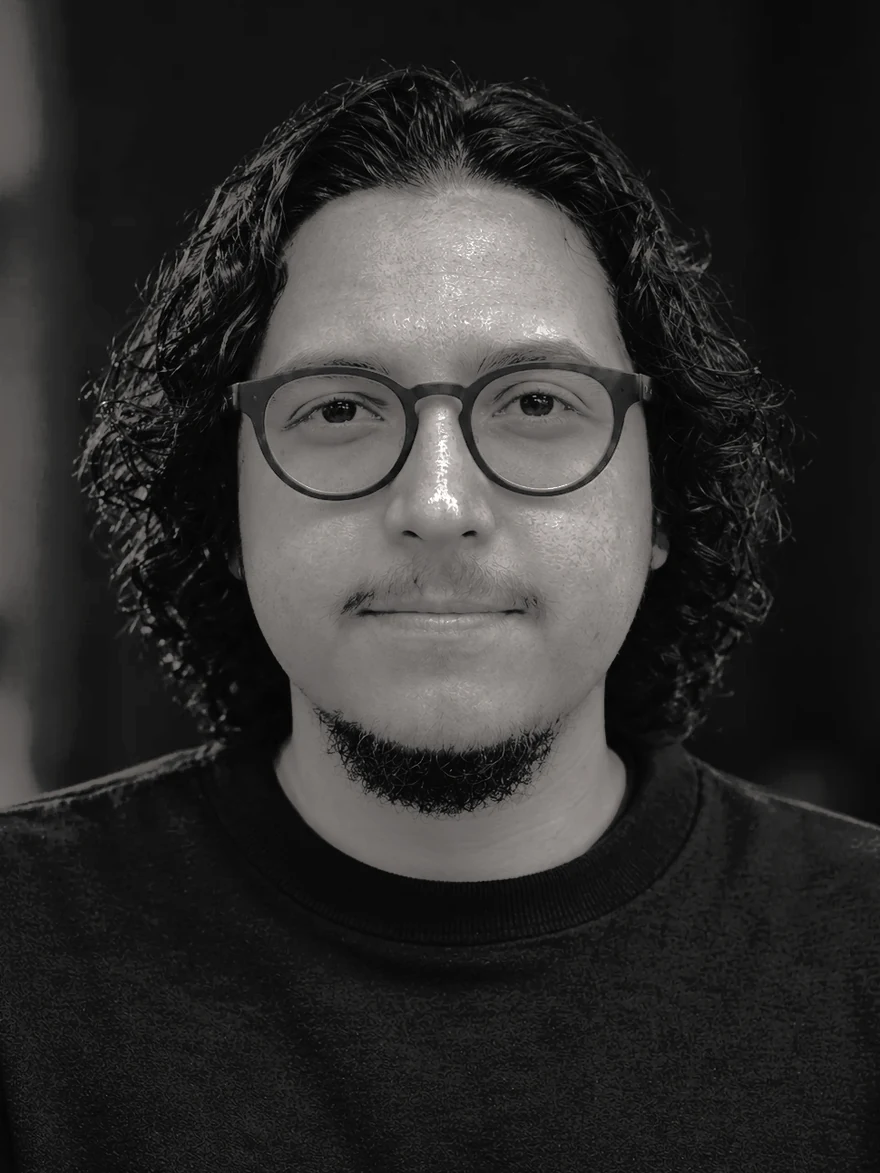
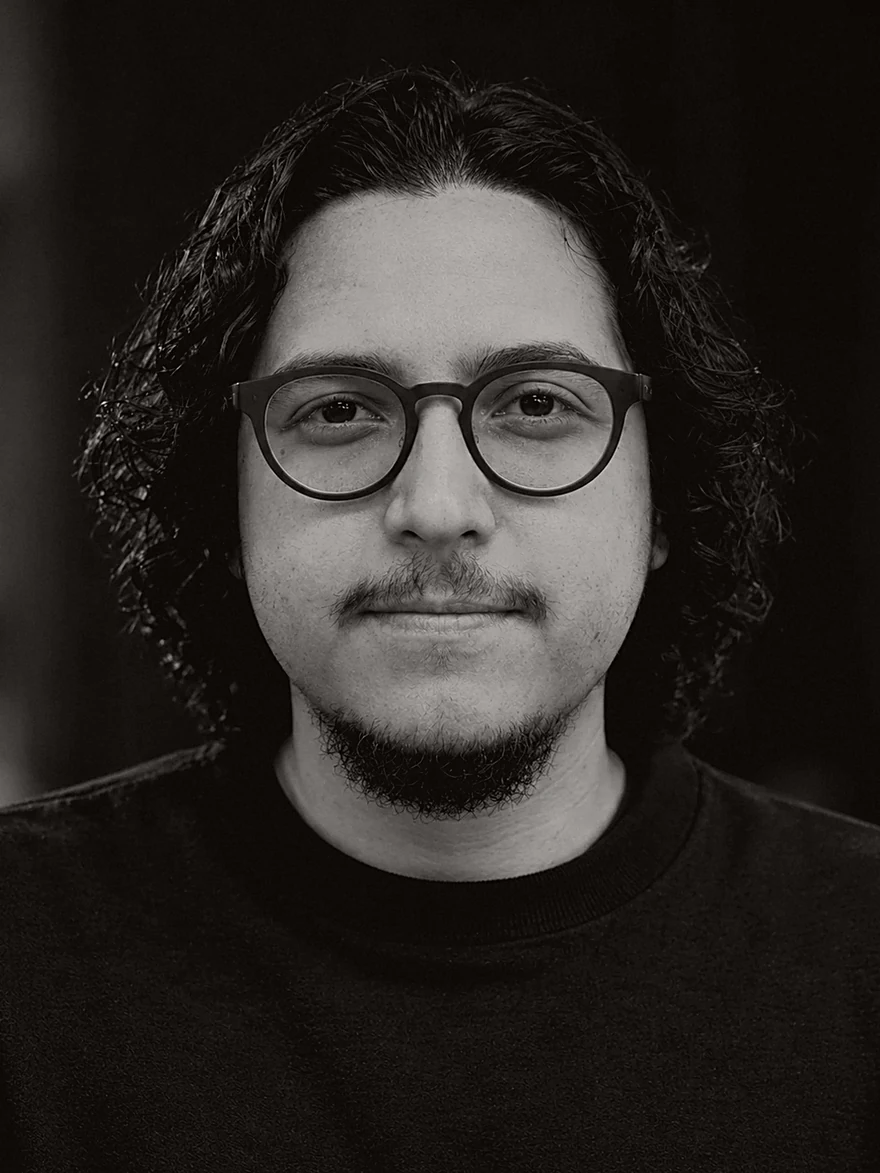
Editorial portraits, code-editor team cards, compiled hero headline
- Both founder portraits share one editorial grade: exposure-matched faces,
  highlight roll-off, matte blacks, film grain and vignette
- Team section rebuilt as code-editor cards; photos compile from ASCII on
  arrival and switch to live ASCII on hover
- Deploys ordered Lyapp, Simply Andy, Your English Buddy; a single
  "your project here" card whose copy and CTA follow the active filter
- Loader shows on first visit and every reload (not on internal navigation)
- Hero headline is typed, written as code, then compiled letter by letter

diff --git a/src/scripts/fx.js b/src/scripts/fx.js
@@ -33,19 +33,47 @@ function decode(el, dur = 900) {
   });
 }
 
-/* ───────── Hero: command + headline decode ───────── */
+/* ───────── Hero: typed headline that compiles from code ───────── */
 const heroCmd = $("[data-hero-cmd]");
-if (heroCmd && !reduced) {
-  const full = heroCmd.dataset.text;
-  const lines = $$("[data-scramble]", $("[data-hero-h1]"));
-  heroCmd.textContent = "";
-  lines.forEach((l) => { l.dataset.final = l.textContent; l.style.visibility = "hidden"; });
+const h1 = $("[data-hero-h1]");
+if (h1 && !reduced) {
+  const l1 = $("[data-type]", h1), l2 = $("[data-compile]", h1);
+  const t1 = l1.textContent, t2 = l2.textContent, code = l2.dataset.code;
+  const full = heroCmd?.dataset.text ?? "";
+  const letters = (el, text) => {
+    el.textContent = "";
+    return [...text].map((ch) => { const s = document.createElement("span"); s.className = "tl-ch"; s.textContent = ch; el.appendChild(s); return s; });
+  };
+  const l1s = letters(l1, t1);
+  l2.classList.add("is-code");
+  l2.textContent = "";
+  if (heroCmd) heroCmd.textContent = "";
+  h1.classList.add("is-typing");
   setTimeout(async () => {
-    for (let i = 1; i <= full.length; i++) { heroCmd.textContent = full.slice(0, i); await wait(18 + Math.random() * 22); }
-    await wait(140);
-    for (const l of lines) { l.style.visibility = ""; await decode(l, 650); }
-  }, noLoader() ? 250 : 1900);
-}
+    // command line types in parallel
+    if (heroCmd) (async () => { for (let i = 1; i <= full.length; i++) { heroCmd.textContent = full.slice(0, i); await wait(11); } })();
+    // line 1: typed with a block caret
+    for (const s of l1s) { s.classList.add("is-on", "is-cur"); await wait(34); s.classList.remove("is-cur"); }
+    // line 2: written as code first…
+    for (let i = 1; i <= code.length; i++) { l2.textContent = code.slice(0, i); await wait(17); }
+    await wait(170);
+    // …then compiled letter by letter into the headline
+    l2.classList.remove("is-code");
+    const l2s = letters(l2, t2);
+    const W = l2.getBoundingClientRect().width;
+    l2s.forEach((s, i) => {
+      s.style.setProperty("--i", i);
+      s.style.backgroundSize = `${W}px 100%`;
+      s.style.backgroundPosition = `${-s.offsetLeft}px 0`;
+      s.classList.add("is-flip");
+    });
+    h1.classList.remove("is-typing");
+    h1.classList.add("is-compiled");
+    await wait(l2s.length * 22 + 520);
+    l2.textContent = t2;
+    l1.textContent = t1;
+  }, noLoader() ? 150 : 1400);
+} else if (heroCmd) heroCmd.textContent = heroCmd.dataset.text;
 
 /* ───────── Hero: live coding playground ───────── */
 const live = $("[data-live]");
@@ -222,3 +250,75 @@ if (fplay) {
   }, { threshold: 0.3 }).observe(fplay);
   if (reduced) fplay.classList.add("is-in");
 }
+
+/* ───────── Team photos: compile from ASCII, live ASCII on hover ───────── */
+const RAMP = " .,:;i1tfLCG08@";
+$$("[data-ascii]").forEach((fig) => {
+  const img = $("img", fig), canvas = $("canvas", fig), scan = $(".dev__scan", fig);
+  const accent = getComputedStyle(fig.closest(".dev") || fig).getPropertyValue("--fc").trim() || "#45E0FF";
+  const ctx = canvas.getContext("2d");
+  let lum = null, cols = 0, rows = 0, cw = 0, ch = 0, reveal = 0, hover = 0, hoverTarget = 0, raf = 0, started = false;
+  const sample = () => {
+    const r = fig.getBoundingClientRect();
+    const dpr = Math.min(2, devicePixelRatio || 1);
+    canvas.width = Math.round(r.width * dpr); canvas.height = Math.round(r.height * dpr);
+    cols = r.width < 360 ? 52 : 78;
+    cw = canvas.width / cols; ch = cw * 1.7; rows = Math.ceil(canvas.height / ch);
+    const off = document.createElement("canvas");
+    off.width = cols; off.height = rows;
+    const o = off.getContext("2d");
+    // mimic object-fit: cover; object-position: 50% 18%
+    const s = Math.max(cols / img.naturalWidth, rows * (ch / cw) / img.naturalHeight);
+    const dw = img.naturalWidth * s, dh = img.naturalHeight * s / (ch / cw);
+    o.drawImage(img, (cols - dw) / 2, (rows - dh) * 0.18, dw, dh);
+    const d = o.getImageData(0, 0, cols, rows).data;
+    lum = new Float32Array(cols * rows);
+    for (let i = 0; i < cols * rows; i++) lum[i] = (d[i * 4] * 0.3 + d[i * 4 + 1] * 0.59 + d[i * 4 + 2] * 0.11) / 255;
+  };
+  const draw = (t) => {
+    if (!lum) return;
+    ctx.clearRect(0, 0, canvas.width, canvas.height);
+    const scanRow = reveal * rows;
+    ctx.font = `${Math.round(ch * 0.82)}px "JetBrains Mono", monospace`;
+    ctx.textBaseline = "top";
+    for (let y = 0; y < rows; y++) {
+      const hidden = y >= scanRow;            // not yet compiled → solid ASCII
+      const a = hidden ? 1 : hover;            // compiled → ASCII only while hovering
+      if (a <= 0.01) continue;
+      ctx.fillStyle = `rgba(6, 7, 14, ${hidden ? 1 : 0.92 * a})`;
+      ctx.fillRect(0, y * ch, canvas.width, ch + 1);
+      for (let x = 0; x < cols; x++) {
+        let v = lum[y * cols + x];
+        if (hover > 0 && Math.random() < 0.012) v = Math.random();
+        const c = RAMP[Math.min(RAMP.length - 1, Math.floor(Math.pow(v, 0.75) * RAMP.length))];
+        if (c === " ") continue;
+        ctx.globalAlpha = Math.min(1, 0.45 + v * 1.1) * (hidden ? 1 : a);
+        ctx.fillStyle = v > 0.55 ? "#eef2f8" : accent;
+        ctx.fillText(c, x * cw, y * ch);
+      }
+      ctx.globalAlpha = 1;
+    }
+    if (scan) { scan.style.opacity = reveal > 0 && reveal < 1 ? "1" : "0"; scan.style.transform = `translateY(${(scanRow * ch) / (canvas.height / fig.clientHeight)}px)`; }
+  };
+  const loop = (now) => {
+    hover += (hoverTarget - hover) * 0.12;
+    draw(now);
+    raf = (reveal < 1 || Math.abs(hoverTarget - hover) > 0.01 || hoverTarget > 0) ? requestAnimationFrame(loop) : 0;
+  };
+  const kick = () => { if (!raf) raf = requestAnimationFrame(loop); };
+  const start = () => {
+    if (started) return; started = true;
+    sample();
+    if (reduced) { reveal = 1; draw(); return; }
+    const t0 = performance.now();
+    const step = (now) => { reveal = Math.min(1, (now - t0) / 1500); if (reveal < 1) requestAnimationFrame(step); };
+    requestAnimationFrame(step); kick();
+  };
+  const ready = () => new IntersectionObserver(([e], io) => { if (e.isIntersecting) { io.disconnect(); setTimeout(start, 250); } }, { threshold: 0.35 }).observe(fig);
+  img.complete && img.naturalWidth ? ready() : img.addEventListener("load", ready, { once: true });
+  if (!reduced) {
+    fig.closest(".dev").addEventListener("pointerenter", () => { if (started && reveal >= 1) { hoverTarget = 1; kick(); } });
+    fig.closest(".dev").addEventListener("pointerleave", () => { hoverTarget = 0; kick(); });
+  }
+  addEventListener("resize", () => { if (started) { sample(); draw(); } }, { passive: true });
+});

diff --git a/src/styles/global.css b/src/styles/global.css
@@ -1096,7 +1096,7 @@ a.svc { text-decoration: none; color: inherit; }
 .hero2__cmd { display: flex; justify-content: center; align-items: center; gap: 8px; margin: 4px 0 22px; font-family: var(--mono); font-size: clamp(12px, 1.4vw, 14px); color: var(--soft); min-height: 1.5em; }
 .hero2__caret, .hero2 .hero2__caret { display: inline-block; width: .55em; height: 1.1em; background: var(--cyan); vertical-align: -2px; animation: blink 1s steps(1) infinite; }
 .hero2__h1 { font-family: var(--display); font-weight: 700; font-size: clamp(46px, 8.6vw, 116px); line-height: .98; letter-spacing: -.045em; margin: 0 auto; }
-.hero2__h1 span { display: block; }
+.hero2__l1, .hero2__l2 { display: block; }
 .hero2__h1 [data-scramble] .gl { color: var(--cyan-2); opacity: .7; font-family: var(--mono); font-weight: 500; -webkit-text-fill-color: var(--cyan-2); }
 .hero2 .lead { margin: 26px auto 0; text-align: center; max-width: 54ch; }
 .hero2 .stage { margin-top: clamp(48px, 8vh, 80px); }
@@ -1317,3 +1317,51 @@ a.svc { text-decoration: none; color: inherit; }
 .nd-w { display: inline-flex; }
 .vsc__editor textarea { max-width: none !important; flex: 1 1 100% !important; }
 .nextdeploy__main { position: relative; z-index: 1; }
+
+/* ─────────────────────────────  Team: code-editor cards  ───────────────────────────── */
+.devs { display: grid; grid-template-columns: repeat(2, minmax(0, 1fr)); gap: 18px; }
+.dev { border-radius: 20px; border: 1px solid var(--line-2); background: #0b0e1c; overflow: hidden; box-shadow: 0 40px 90px -40px rgba(0, 0, 0, .9); transition: border-color .3s, transform .5s var(--ease); }
+.dev:hover { border-color: color-mix(in srgb, var(--fc) 55%, transparent); transform: translateY(-4px); }
+.dev__bar { display: flex; align-items: center; gap: 14px; padding: 11px 14px; background: #090b17; border-bottom: 1px solid var(--line); font-family: var(--mono); font-size: 12px; }
+.dev__file { display: inline-flex; gap: 7px; align-items: center; padding: 4px 10px; border-radius: 7px; background: var(--ed, #0d1020); color: var(--text); border-top: 2px solid var(--fc); }
+.dev__blame { margin-left: auto; color: var(--faint); }
+.dev__body { display: grid; grid-template-columns: minmax(0, .95fr) minmax(0, 1.05fr); }
+.dev__photo { position: relative; margin: 0; min-height: 440px; overflow: hidden; background: #000; border-right: 1px solid var(--line); }
+.dev__photo img { position: absolute; inset: 0; width: 100%; height: 100%; object-fit: cover; object-position: 50% 18%; }
+.dev__photo canvas { position: absolute; inset: 0; width: 100%; height: 100%; pointer-events: none; }
+.dev__scan { position: absolute; left: 0; right: 0; top: 0; height: 2px; background: var(--fc); box-shadow: 0 0 18px 3px var(--fc); opacity: 0; pointer-events: none; }
+.dev__photo figcaption { position: absolute; left: 10px; bottom: 10px; padding: 3px 8px; border-radius: 6px; background: rgba(6, 7, 14, .75); font-family: var(--mono); font-size: 10.5px; color: var(--dim); }
+.dev__code { padding: 20px 20px 22px 18px; font-family: var(--mono); font-size: 13px; line-height: 1.9; color: #c7cee6; counter-reset: dl; min-width: 0; }
+.dl { position: relative; padding-left: 30px; counter-increment: dl; }
+.dl::before { content: counter(dl); position: absolute; left: 0; width: 18px; text-align: right; color: #3b4266; font-size: 11.5px; }
+.dl--in { padding-left: 48px; }
+.dev__code .k { color: #c792ea; } .dev__code .v { color: var(--fc); } .dev__code .p { color: #82aaff; } .dev__code .s { color: #c3e88d; }
+.dev__name { display: inline; white-space: nowrap; font-family: var(--display); font-size: clamp(18px, 1.6vw, 22px); font-weight: 700; letter-spacing: -.5px; color: #c3e88d; }
+.dl--wrap { display: block; }
+.dev__chip { display: inline-block; margin-right: 6px; color: #c3e88d; }
+.dl--bio p { display: inline; font-family: var(--body); font-size: 14px; line-height: 1.65; color: var(--muted); }
+@media (max-width: 1100px) { .devs { grid-template-columns: 1fr; } }
+@media (max-width: 560px) { .dev__body { grid-template-columns: 1fr; } .dev__photo { border-right: 0; border-bottom: 1px solid var(--line); min-height: 0; aspect-ratio: 1; } .dev__blame { display: none; } }
+.build[hidden] { display: none !important; }
+.build__btn { align-self: flex-start; margin-top: auto; }
+.build__body p { margin-bottom: 18px; }
+.build--wide { grid-template-columns: 260px 1fr; min-height: 220px; }
+.build--wide .build__body { justify-content: center; padding: 30px 34px; }
+.build--wide h3 { font-size: clamp(24px, 3vw, 34px); }
+
+/* Hero headline: typed, then compiled */
+.hero2__h1 { position: relative; display: inline-block; padding: 0 .35em; }
+.h1-tag { position: absolute; left: -.2em; top: -.15em; font-family: var(--mono); font-size: clamp(12px, 1.2vw, 15px); font-weight: 500; letter-spacing: 0; color: #c792ea; opacity: .75; }
+.h1-tag--end { left: auto; top: auto; right: -.4em; bottom: -.1em; }
+.hero2__l1, .hero2__l2 { min-height: 1em; }
+.is-typing .tl-ch { opacity: 0; }
+.tl-ch.is-on { opacity: 1; }
+.tl-ch.is-cur { box-shadow: .08em 0 0 0 var(--cyan); }
+.hero2__l2.is-code { font-family: var(--mono); font-weight: 500; font-size: .62em; letter-spacing: -.02em; line-height: 1.6; background: none; -webkit-text-fill-color: #7fe7ff; color: #7fe7ff; }
+.hero2__l2.is-code::after { content: ""; display: inline-block; width: .5em; height: .9em; margin-left: .06em; vertical-align: -.08em; background: var(--cyan); animation: blink .6s steps(1) infinite; }
+.hero2__l2 .tl-ch { display: inline-block; white-space: pre; background-image: var(--grad-text); -webkit-background-clip: text; background-clip: text; -webkit-text-fill-color: transparent; }
+.tl-ch.is-flip { animation: compileIn .5s cubic-bezier(.3, 1.4, .5, 1) both; animation-delay: calc(var(--i) * 22ms); }
+@keyframes compileIn { 0% { transform: translateY(.35em) rotateX(90deg); opacity: 0; filter: blur(4px); } 60% { opacity: 1; } 100% { transform: none; opacity: 1; filter: none; } }
+.hero2__h1.is-compiled .h1-tag { animation: tagPulse .8s ease 1; }
+@keyframes tagPulse { 50% { opacity: 1; color: var(--cyan); } }
+@media (max-width: 640px) { .h1-tag { display: none; } .hero2__h1 { padding: 0; } }

diff --git a/src/data/projects.ts b/src/data/projects.ts
@@ -26,7 +26,7 @@ export type Project = {
 
 const testEnv: L = { en: "In staging", es: "En entorno de prueba" };
 
-export const projects: Project[] = [
+const list: Project[] = [
   {
     slug: "simply-andy",
     name: "Simply Andy",
@@ -176,9 +176,16 @@ export const projects: Project[] = [
   },
 ];
 
-export const upcoming = [
-  { name: { en: "Your e-commerce here", es: "Tu e-commerce aquí" }, category: { en: "Web · E-commerce", es: "Web · E-commerce" }, note: { en: "Booking now", es: "Agenda abierta" } },
-  { name: { en: "Project in progress", es: "Proyecto en desarrollo" }, category: { en: "SaaS platform", es: "Plataforma SaaS" }, note: { en: "Under NDA · coming soon", es: "Bajo NDA · próximamente" } },
+/** Display order: Lyapp, Simply Andy, Your English Buddy. */
+export const projects: Project[] = ["lyapp", "simply-andy", "your-english-buddy"].map((slug) => list.find((p) => p.slug === slug)!);
+
+/** "Your project here" card: one per filter, each with its own call to action. */
+export const ctaCards: { key: string; module: string; name: L; category: L; text: L; cta: L; note: L }[] = [
+  { key: "all", module: "", name: { en: "Your project here", es: "Tu proyecto aquí" }, category: { en: "App · Web · E-commerce · SaaS", es: "App · Web · E-commerce · SaaS" }, text: { en: "An e-commerce, a SaaS platform, an app or a brand system: this slot is still compiling. It could be yours.", es: "Un e-commerce, una plataforma SaaS, una app o un sistema de marca: este espacio se está compilando. Podría ser el tuyo." }, cta: { en: "Start a project", es: "Iniciar proyecto" }, note: { en: "Booking now", es: "Agenda abierta" } },
+  { key: "apps", module: "apps", name: { en: "Your app here", es: "Tu app aquí" }, category: { en: "Mobile apps", es: "Apps móviles" }, text: { en: "From idea to the App Store and Google Play, with the polish of Lyapp.", es: "De la idea a la App Store y Google Play, con el nivel de detalle de Lyapp." }, cta: { en: "Build my app", es: "Construir mi app" }, note: { en: "iOS · Android", es: "iOS · Android" } },
+  { key: "web", module: "web", name: { en: "Your website here", es: "Tu web aquí" }, category: { en: "Web development", es: "Desarrollo web" }, text: { en: "A fast website that turns visits into customers, from landing page to platform.", es: "Una web rápida que convierte visitas en clientes, de landing page a plataforma." }, cta: { en: "Launch my website", es: "Lanzar mi web" }, note: { en: "Landing · E-commerce · SaaS", es: "Landing · E-commerce · SaaS" } },
+  { key: "seo", module: "seo", name: { en: "Your rankings here", es: "Tu posicionamiento aquí" }, category: { en: "SEO & GEO", es: "SEO & GEO" }, text: { en: "Get found on Google and cited in AI answers. We start with a technical audit.", es: "Que te encuentren en Google y te citen las IA. Empezamos con una auditoría técnica." }, cta: { en: "Get an SEO audit", es: "Pedir auditoría SEO" }, note: { en: "Audit in 2 weeks", es: "Auditoría en 2 semanas" } },
+  { key: "branding", module: "branding", name: { en: "Your brand system here", es: "Tu sistema de marca aquí" }, category: { en: "Brand systems", es: "Sistemas de marca" }, text: { en: "A brand kit your team can actually use, like the one we built for Simply Andy.", es: "Un brand kit que tu equipo pueda usar de verdad, como el que hicimos para Simply Andy." }, cta: { en: "Build my brand kit", es: "Crear mi brand kit" }, note: { en: "3–5 weeks", es: "3–5 semanas" } },
 ];
 
 export const serviceNames: Record<string, L> = {

diff --git a/src/scripts/motion.js b/src/scripts/motion.js
@@ -464,7 +464,13 @@ $$("[data-filters]").forEach((filters) => {
     $$("[data-cat]", scope).forEach((el) => {
       if (el === filters) return;
       const cats = el.dataset.cat.split(" ");
-      el.classList.toggle("is-hidden", !all && !cats.includes(cat) && !(el.dataset.cat === "upcoming"));
+      el.classList.toggle("is-hidden", !all && !cats.includes(cat));
+    });
+    // one "your project here" card per filter, each with its own CTA
+    $$("[data-cta]", scope).forEach((el) => {
+      const show = el.dataset.cta === (all ? "todos" : cat);
+      el.hidden = !show;
+      if (show) el.classList.add("is-in");
     });
   });
 });
@@ -474,7 +480,7 @@ const loader = $("#loader");
 if (loader && !document.documentElement.classList.contains("no-loader")) {
   const pct = $("#loader-pct");
   const t0 = performance.now();
-  const MIN = 1700;
+  const MIN = 1300;
   let loaded = document.readyState === "complete";
   addEventListener("load", () => (loaded = true), { once: true });
   const step = (now) => {

diff --git a/src/data/site.ts b/src/data/site.ts
@@ -105,6 +105,7 @@ export const founders = [
     name: "Fabian Pernía",
     initials: "Fabian",
     photo: "team/fabian-pernia.webp",
+    sha: "f4b1a2e",
     role: { en: "Co-founder · Full Stack Engineer", es: "Co-founder · Full Stack Engineer" },
     jobTitle: "Full Stack Engineer",
     bio: {
@@ -118,6 +119,7 @@ export const founders = [
     name: "Fabio Pernía",
     initials: "Fabio",
     photo: "team/fabio-pernia.webp",
+    sha: "0fa8c3d",
     role: { en: "Co-founder · Creative Director & Head of Sales", es: "Co-founder · Creative Director & Head of Sales" },
     jobTitle: "Creative Director & Head of Sales",
     bio: {
